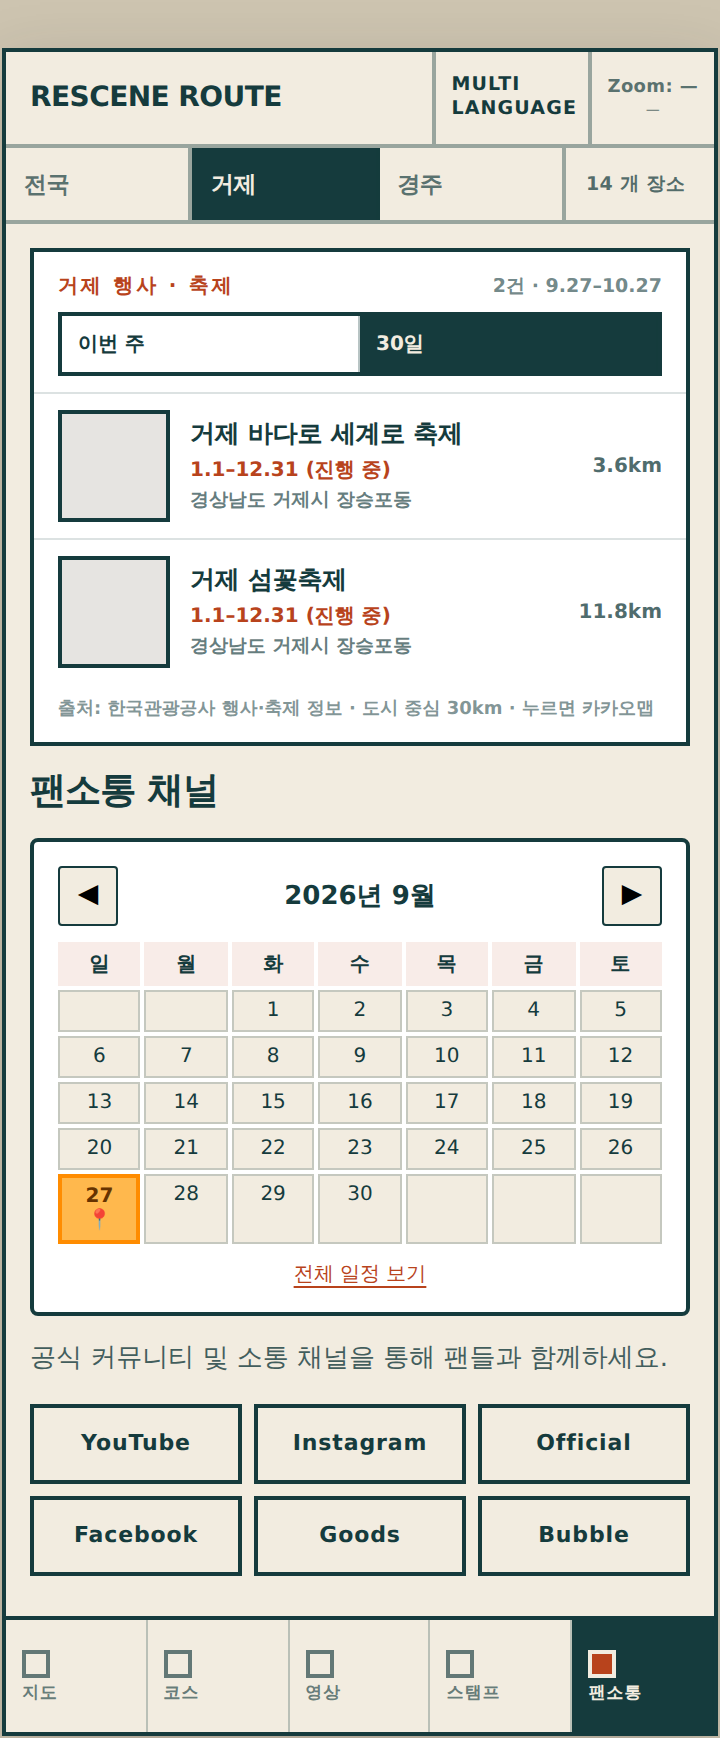
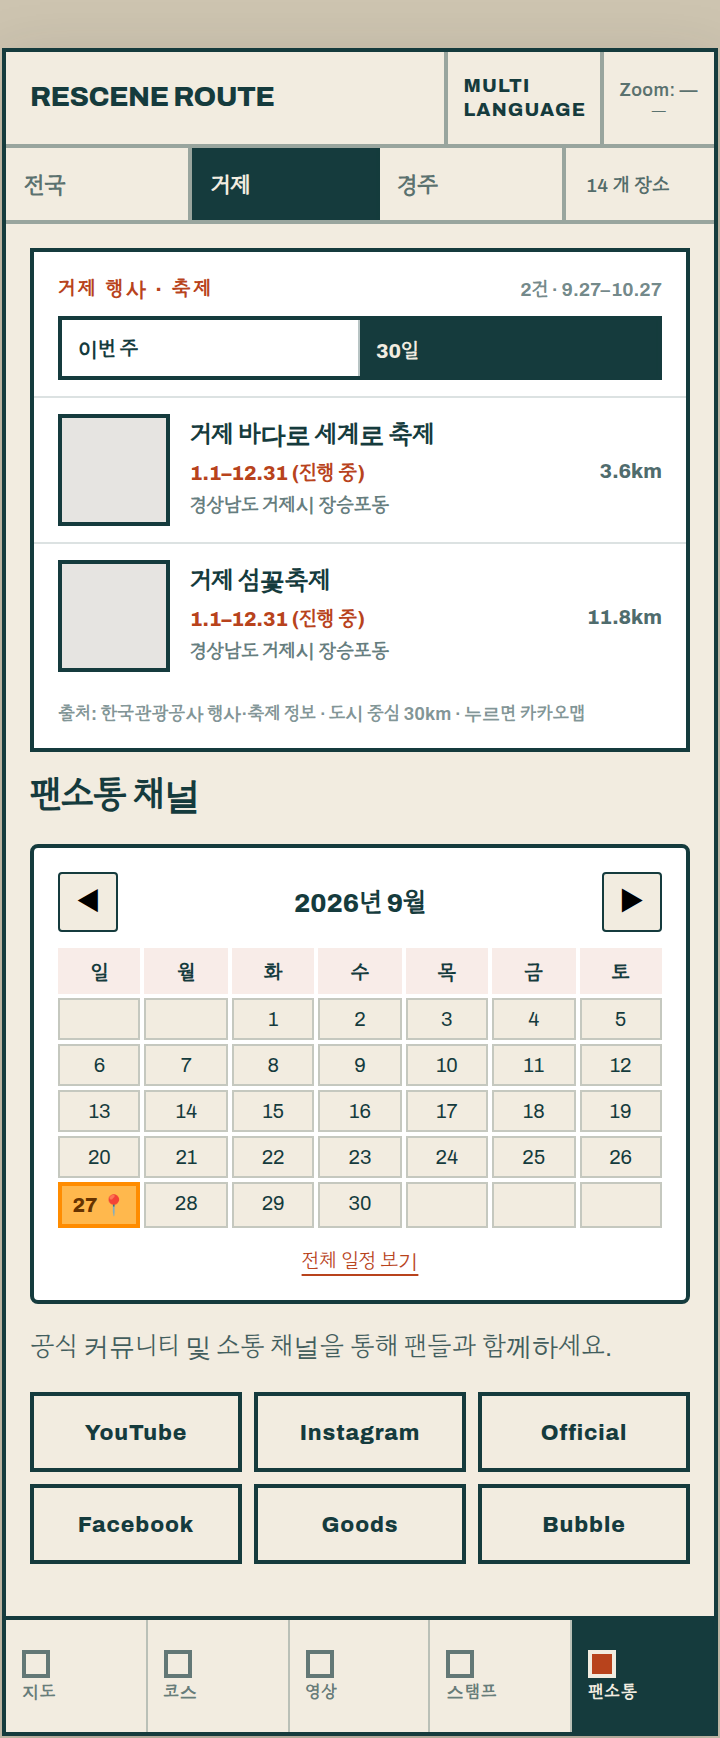
Add per-place detail captures and re-shoot all screenshots with web fonts
- Four place-detail captures (감천문화마을, 성산일출봉, 낙산공원 성곽길,
  동궁과 월지) added to a "관광지별 정보" gallery in the README.
- Every capture re-taken with Archivo · Gowun Dodum loaded, so text matches
  the real app. Map-tab captures are not included: Google Maps serves no
  tiles without a key; the README names the slot for them.

Claude-Session: https://claude.ai/code/session_01BBDwQ9r6aFqPRaPMDHpUkk

diff --git a/CHANGELOG.md b/CHANGELOG.md
@@ -12,7 +12,7 @@
 - 체류 시간 CSV 3종 재생성(2,711곳), I18N-TODO 줄 번호 재계산, README · DATA · APIS 갱신. 플래너는 9,496줄 · 2.0MB — 장소 데이터 분리는 ROADMAP 항목
 
 ### 문서
-- README 를 기능 상세 중심으로 다시 씀 — 홈 · 지도와 목록 · 장소 상세 · 코스 빌더 · 교통 · 숙박 · 내 플랜/저장/스탬프 · 영화 속 장면 · 여행 정보 · 다국어 · 키 없이 실행 11개 절. 캡처 7장 추가(`assets/screenshots/`: 테마 추천, 코스 빌더, 거제 장소 상세 2장, 팬소통 탭 행사, 영상, 스탬프 북 — 테마 예시는 RESCENE Route · 거제) — 헤드리스 브라우저 + 예시 API 응답으로 찍음
+- README 를 기능 상세 중심으로 다시 씀 — 홈 · 지도와 목록 · 장소 상세 · 코스 빌더 · 교통 · 숙박 · 내 플랜/저장/스탬프 · 영화 속 장면 · 여행 정보 · 다국어 · 키 없이 실행 11개 절. 캡처 11장 추가(`assets/screenshots/`: 테마 추천, 코스 빌더, 거제 장소 상세 2장, 팬소통 탭 행사, 영상, 스탬프 북, 관광지별 정보 4장 — 감천문화마을 · 성산일출봉 · 낙산공원 성곽길 · 동궁과 월지). 전 캡처를 Archivo · Gowun Dodum 웹폰트로 다시 찍음. 지도 탭은 Google Maps 키가 없어 타일이 비어 캡처하지 않음 — 헤드리스 브라우저 + 예시 API 응답으로 찍음
 - `시스템 구성도/` 를 09-27 통합본 기준으로 다시 그림 — 공공데이터포털 상자에 TAGO · 공항 소요시간 · 부산시 · 부산교통공사 · 관광지 집중률, Kakao 상자에 모빌리티 길찾기, 키 없는 서비스에 서울 지하철 실시간 도착, 처리 흐름에 지하철 호선·역 · 실측 이동 · 도시별 행사. 명세서 v1.1 (외부 인터페이스 9행 추가, 화면 줄 수 · 제약 · 향후 계획 갱신)
 - `체류시간 산정/체류시간_산정_로직_설명.docx` 를 2,711곳 CSV 로 재생성
 - 저장소 문서 전반 정리 — APIS 의 한국도로공사 용도(휴게소) · 한국공항공사 상태(`KAC_ENDPOINT` 미설정) 정정, CORS 절을 실제 차단 항목으로 고침, DATA 에 `tour-places.csv` 1,197곳과 플래너 2,711곳 구분 · 관광특구 배지 기준, ARCHITECTURE 코스 계산 흐름에 실측 이동 · 시각표, CONTRIBUTING 에 `TMDB_KEY` 와 내보내기 후 절차, CLEANUP 기간 · 복제 수 갱신

diff --git a/README.md b/README.md
@@ -24,7 +24,7 @@
 
 ## 화면 둘러보기
 
-캡처는 API 키 없이 헤드리스 브라우저에서 찍은 것이라 지도 타일은 비어 있고, 외부 API 응답은 예시 값입니다. 각 화면의 실제 동작은 아래 [기능 상세](#기능-상세) 에 있습니다.
+캡처는 헤드리스 브라우저에서 찍었고 외부 API 응답은 예시 값입니다. Google Maps 는 키 없이는 타일을 내려주지 않아 지도 영역이 비어 있으며, 지도 탭 캡처는 키가 있는 환경에서 찍어 `assets/screenshots/map-*.png` 로 넣을 자리입니다. 각 화면의 실제 동작은 아래 [기능 상세](#기능-상세) 에 있습니다.
 
 <table>
 <tr>
@@ -39,6 +39,22 @@
 </tr>
 <tr>
 <td align="center"><img src="assets/screenshots/theme-stamp.png" width="200"><br><sub>스탬프 북 (거제 22곳)</sub></td>
+<td></td><td></td>
+</tr>
+</table>
+
+### 관광지별 정보
+
+테마마다 장소 상세의 표 항목이 조금씩 다릅니다. 전화번호가 있는 곳은 전화 행이, 유네스코 세계유산은 이름 옆에 배지가 붙습니다.
+
+<table>
+<tr>
+<td align="center"><img src="assets/screenshots/place-busan.png" width="200"><br><sub>부산 영화 기행 · 감천문화마을 (운영시간 · 요금 · 전화 · 작품)</sub></td>
+<td align="center"><img src="assets/screenshots/place-jeju-2.png" width="200"><br><sub>제주 K-Drama · 성산일출봉 (유네스코 배지 · 연관 관광지 · 날씨)</sub></td>
+<td align="center"><img src="assets/screenshots/place-seoul.png" width="200"><br><sub>케데헌 서울 · 낙산공원 성곽길 (장면 설명 · 접근 팁)</sub></td>
+</tr>
+<tr>
+<td align="center"><img src="assets/screenshots/place-gyeongju-2.png" width="200"><br><sub>RESCENE Route · 경주 동궁과 월지 (연관 관광지 · 미세먼지 등급)</sub></td>
 <td></td><td></td>
 </tr>
 </table>

diff --git a/CLEANUP.md b/CLEANUP.md
@@ -19,7 +19,7 @@
 
 - `assets/open-tour-unmatched.csv` — 열린관광지 배지 매칭이 남은 12곳. ROADMAP 의 작업 목록이라 둠.
 - `테마 추천 알고리즘/data/derived/*.json`, `체류시간 산정/*.csv` — 스크립트로 다시 만들 수 있지만 각 폴더 README 가 "결과를 함께 커밋" 하도록 정함.
-- `assets/screenshots/*.png` (8장) — README 용 캡처. 화면이 바뀌면 다시 찍는다 (헤드리스 Chromium, API 응답은 예시 값).
+- `assets/screenshots/*.png` (12장) — README 용 캡처. 화면이 바뀌면 다시 찍는다 (헤드리스 Chromium, API 응답은 예시 값).
 
 ## 3. 규칙
 
